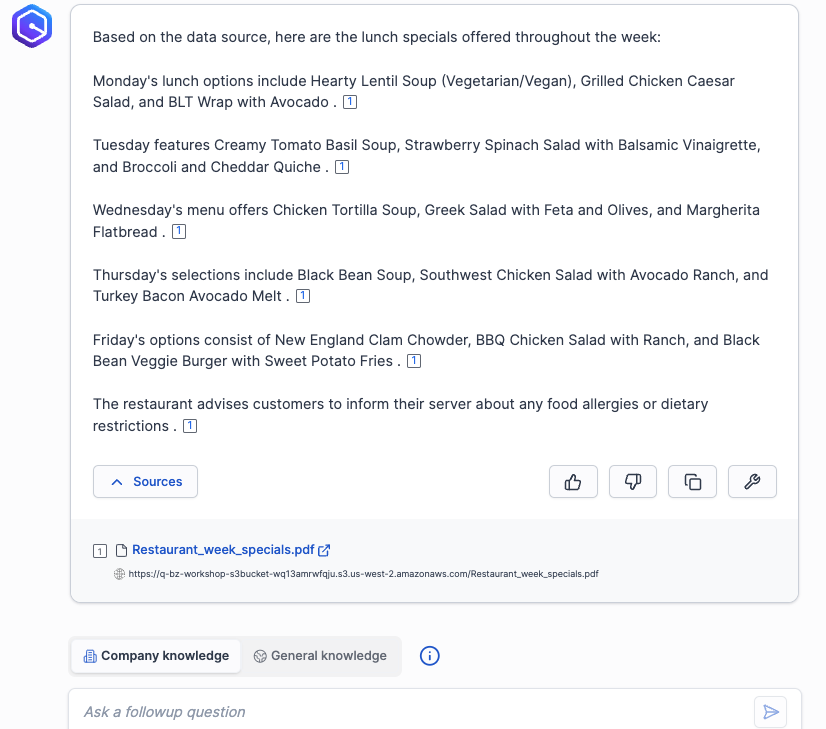
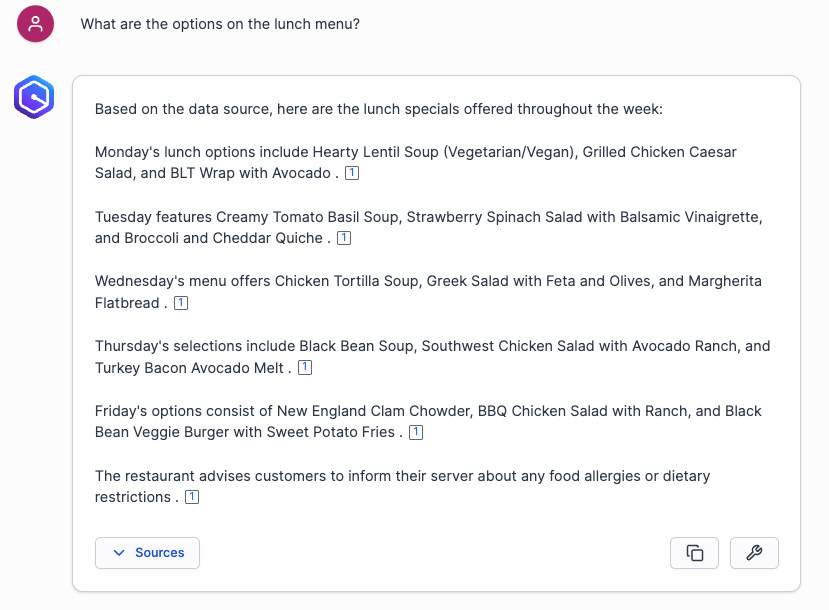
Add chat

diff --git a/chat/README.md b/chat/README.md
@@ -7,7 +7,7 @@ You will be asked to sign in using the username that we created [in the IDC setu
 ![chat-2](./img/chat-2.png)  
 
 2. As you can see tabs above the chat textbox. There are Company knowledge and General knowledge. If Company Knowledge is selected, the application retrieves information from the configured knowledge bases to respond to the user. In contrast, when General Knowledge is chosen, the application relies on model knowledge derived from trained data to interact with the user.  
-To understand better, please check the below examples.  
+To understand better, please check the below examples using this question `When was Amazon Q Business released`.   
 
 Ask using Company Knowledge.  
 ![chat-3](./img/chat-3.png)  
@@ -15,7 +15,7 @@ Ask using General Knowledge.
 ![chat-4](./img/chat-4.png)  
 
 3. Let's ask questions relevant to data sources we configured previously.  
-Ask a question `How many do AWS offer fully managed Retrieval Augmented Generation options? And which one is the first recommended by AWS?`.  
+Ask a question `How many fully managed Retrieval Augmented Generation (RAG) options does AWS offer, and which one is the first recommended by AWS?`.  
 ![chat-5](./img/chat-5.png)  
 As you can see the source the application uses to answer us from the Web crawler data source.  
 
@@ -23,7 +23,7 @@ Next, ask this question `When will I receive a debit card after open an account?
 ![chat-6](./img/chat-6.png)  
 The application uses the source from the Uploaded file data source.  
 
-Ask another `What are lunch menu?`.  
+Ask another `What are the options on the lunch menu?`.  
 ![chat-7](./img/chat-7.png)  
 The source is from the S3 data source.  
 
